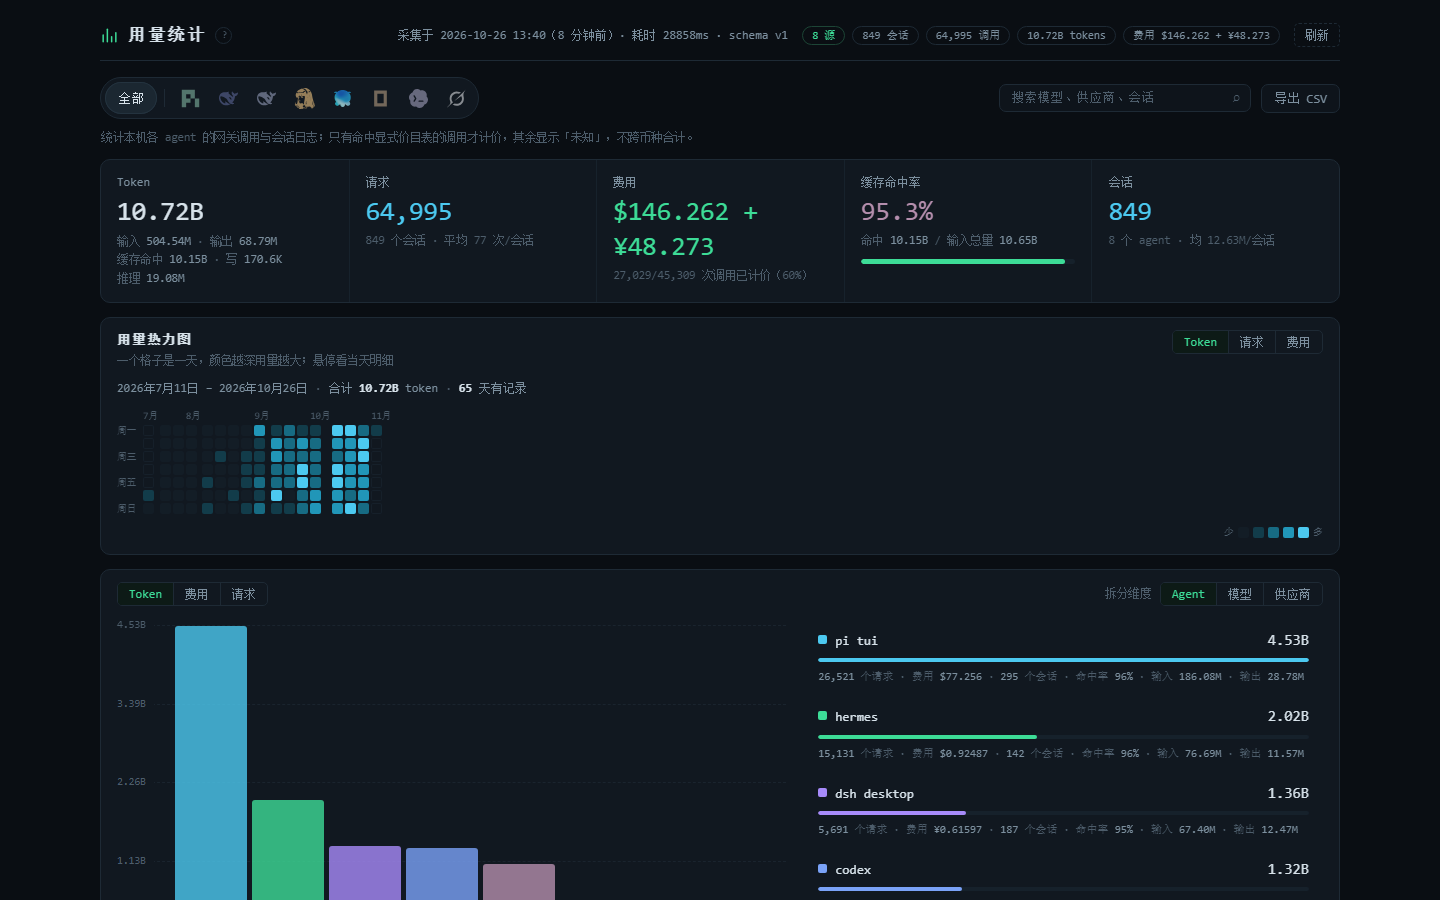
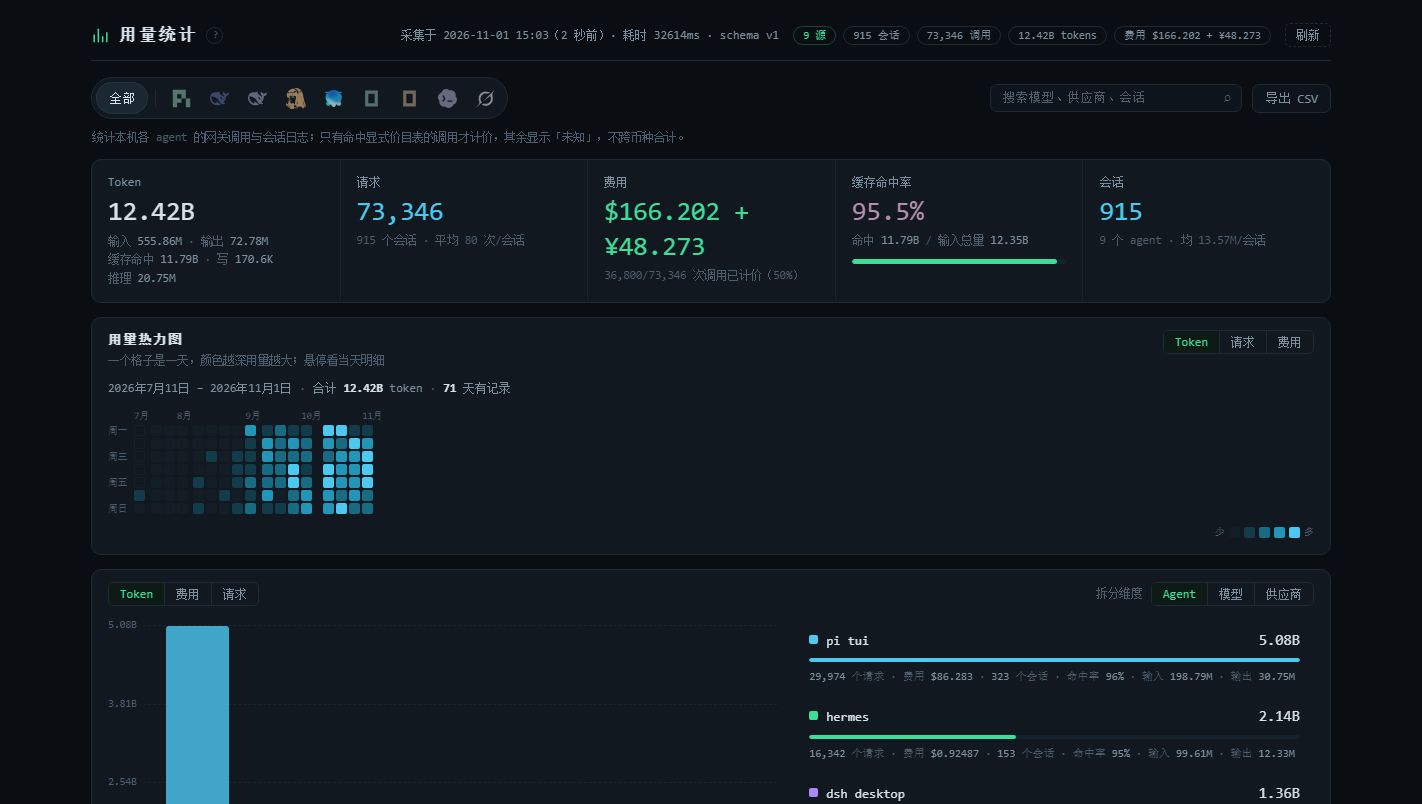
content(token-usage): 更到 11-01 现状 —— 9 个源、12.42B/73,346 调用，补 provider 归属与模型归一化，新增三个坑与欠债，换四张新截图

diff --git a/content/posts/token-usage.md b/content/posts/token-usage.md
@@ -1,27 +1,27 @@
 ---
-title: 8 个 agent 的账本，能不能放进同一张账单
+title: 9 个 agent 的账本，能不能放进同一张账单
 project: token-usage
 slug: token-usage
 date: 2026-10-13
 category: project
 tags: [用量统计, sqlite, zstandard, 数据归一化, 零依赖]
-summary: 本机 8 个编码 agent 各记各的账，SQLite、JSONL、Zstandard 事件流混在一起，连 input_tokens 的含义都不统一。这篇写怎么把它们归一成一张能横向比较的账单，以及一个有明文密钥躺在数据库里的事。
+summary: 本机 9 个编码 agent 各记各的账，SQLite、JSONL、Zstandard 事件流混在一起，连 input_tokens 的含义都不统一，provider 和模型名还有两套写法。这篇写怎么把它们归一成一张能横向比较的账单：12.42B tokens、73,346 次调用，以及一个有明文密钥躺在数据库里的事。
 stack: [Node.js, node:sqlite, node:zlib, Zstandard, 原生 HTML]
 status: shipped
-updated: 2026-10-26
+updated: 2026-11-01
 ---
 
 用了半年多编码 agent 之后，我发现自己答不上一个很简单的问题：
 
 **钱花在哪了？**
 
-pi、codex、opencode、grokbuild、dsh desktop、dsh web、hermes、minimax code —— 八个东西各记各的账，两个在 SQLite 里，一个在 Zstandard 压缩的事件流里，一个在 NAS 的 docker 卷里，还有几个的原始目录**已经被它自己删掉了**。
+pi、codex、opencode、opencode tui、grokbuild、dsh desktop、dsh web、hermes、minimax code —— 九个东西各记各的账：有的在 SQLite 里，有的在 Zstandard 压缩的事件流里，有的在 NAS 的 docker 卷里，还有几个的原始目录**已经被它自己删掉了**。
 
 所以这个项目的目标不是做报表，是做一件更前面的事：**把它们说成同一种语言。**
 
 <figure>
   <img src="/media/token-usage/dashboard-top.png" alt="用量统计面板顶部：汇总卡、用量热力图、按 agent 排行的柱状图">
-  <figcaption>面板顶部：10.72B tokens、64,995 次调用、费用 $146.262 + ¥48.273，右边是按 agent 的排行</figcaption>
+  <figcaption>面板顶部：12.42B tokens、73,346 次调用、费用 $166.202 + ¥48.273，右边是按 agent 的排行</figcaption>
 </figure>
 
 ## 它长什么样
@@ -34,21 +34,21 @@ pi、codex、opencode、grokbuild、dsh desktop、dsh web、hermes、minimax cod
 
 <figure>
   <img src="/media/token-usage/tables-agent.png" alt="Agent 对比表：8 个 agent 的会话数、调用数、输入输出、缓存命中、合计与费用">
-  <figcaption>agent 对比 —— pi tui 4.53B / hermes 2.02B / dsh desktop 1.36B，费用按各源自带的价格算</figcaption>
+  <figcaption>agent 对比 —— pi tui 5.08B / hermes 2.14B / dsh desktop 1.36B，费用按各源自带的价格算</figcaption>
 </figure>
 
 **这些钱花在哪些项目上：**
 
 <figure>
   <img src="/media/token-usage/tables-source.png" alt="会话来源表：按项目/来源统计的会话、调用、输入输出、合计与费用">
-  <figcaption>会话来源 —— 前几名是 cli、青风山居、codex、wt-dev；这一列是把「谁在烧钱」落到具体项目上的关键</figcaption>
+  <figcaption>会话来源 —— 前几名是 cli（11,038 次调用）、青风山居（6,139）、(未标注)（6,186）、codex；这一列是把「谁在烧钱」落到具体项目上的关键</figcaption>
 </figure>
 
 **同一个模型被谁服务、各花多少：**
 
 <figure>
   <img src="/media/token-usage/tables-model.png" alt="Top 模型表：provider、模型、调用数、输入输出、缓存命中、合计与费用">
-  <figcaption>Top 模型 —— 一个模型一行；provider 一列被脱敏成 <code>(codex session 数据源)…</code>、<code>(未登记 provider)</code>，费用查不到价就写「未知」</figcaption>
+  <figcaption>Top 模型 —— 一个模型一行，provider 一列把同一模型的所有中转站并列（<code>B.AI · cline-pass 等 7 家</code>）；费用查不到价就写「未知」</figcaption>
 </figure>
 
 能回答三个问题：
@@ -57,9 +57,9 @@ pi、codex、opencode、grokbuild、dsh desktop、dsh web、hermes、minimax cod
 2. 哪个 agent / provider / 模型在花？
 3. 什么时候花的（按天）？
 
-## 八个源，八套口径
+## 九个源，九套口径
 
-难的不是读数据，是**这八套数据互相不认识**：
+难的不是读数据，是**这九套数据互相不认识**：
 
 | Agent | 环境 | 数据源 | 麻烦在哪 |
 |---|---|---|---|
@@ -67,8 +67,9 @@ pi、codex、opencode、grokbuild、dsh desktop、dsh web、hermes、minimax cod
 | codex | Windows 11 | 同上（当前库 + 轮转备份） | 原始 `~/.codex/` **已被删**，备份是唯一副本 |
 | opencode | Windows 11 | 同上 + 日聚合表 | 原始 `~/.local/share/opencode` **也没了** |
 | grokbuild | Windows 11 | 同上 + 日聚合表 | 同上 |
+| opencode tui | Windows 11 | `~/.local/share/opencode/opencode.db` | OpenCode **自带账本**：逐条 assistant 消息的 token + 原生 USD cost |
 | dsh desktop | Windows 11 | `~/.dsh/sessions/*/*/session.v4.jsonl.zstd` | 要从 Zstandard 多帧事件流还原 per-message usage |
-| dsh web | WSL2 Ubuntu-24.04 | 同上，经 `wsl.exe` | 本机 `\\wsl.localhost\` 不可达 |
+| dsh web | WSL2 Ubuntu-24.04 | 同上，经 `wsl.exe` | 本机 `\\wsl.localhost\` 不可达；WSL 侧现在也有 187 个 session |
 | hermes | NAS docker（群晖） | `[NAS]:\hermes\hermes_data\profiles\*\state.db` | 唯一自带 cost 列，含企微 bot 会话 |
 | minimax code | Windows 11 | `~/.minimax/v2/sqlite/runtime-state.sqlite` | 账本行的 `model` 是 `NULL` |
 
@@ -96,11 +97,28 @@ pi、codex、opencode、grokbuild、dsh desktop、dsh web、hermes、minimax cod
 
 **数据一条没少，只是名字不同。** 所以「一个模型一行」这件事得先做归一化，否则排行表里同一个模型会被拆成好几行。
 
+归一化在 `lib/model.mjs` 里，只折三层：厂商命名空间（`cline-pass/`）、端点前缀（`global:` / `cn:`）、尾部发布日期（`-1017` / `-20251017`）。折完再计价（价目表按原始拼法匹配），原始拼法保留在 `rawModel` 和快照的 `modelAliases` 里。
+
+效果是模型榜从 **78 行降到 38 行**（后来又接了两个源，现在 45 行）：`deepseek-v4.1-flash` 的三个拼法合成一行 —— 现在 47,851 次调用、8.84B tokens，provider 一列并列七家。
+
+但归一化不能过头：`step-5-preview`、`mimo-v2.5-pro` 这些名字相近的确实是不同模型；大小写也一律不折，因为 `qwen2.5-coder:7b-instruct-q4_K_M` 是本地模型的 tag，大小写敏感。
+
 ### 三、有的账本自带价格，有的没有
 
 hermes 的 `session_model_usage` 自带 cost 列，cc-switch 带原生 USD 价。剩下的消费方没有价，只能用 `pricing.json` 按模型查表估算 —— 查不到的就显示「未知」，**不摊、不猜、不分母**。
 
-面板里那句 `27,029/45,309 次调用已计价（60%）` 就是这条规则的结果。
+面板里那句 `36,800/73,346 次调用已计价（50%）` 就是这条规则的结果。
+
+### 四、provider 也是各写各的
+
+模型名归一完，排行榜还是不对：同一家 provider 在三个源里叫三个名字。
+
+- cc-switch 里自定义厂商存成 `custom:workbuddy`，hermes 里叫 `workbuddy`；
+- 有的流量 provider 是 `(unknown)`，看模型能认出是 B.AI；
+- 小米的三条计费线名字不同，其实是同一个 token 套餐；
+- 最麻烦的是三个 `provider_id` 是裸 UUID —— 它们在 `providers` 表里没有记录，是孤儿值。
+
+所以有 `lib/provider.mjs`：按 `(provider, model)` 的归属规则匹配，`providers.json` 里写死映射；UUID 型的 id 取 sha256 指纹的前几位当替身（既不丢失区分度，也不会把密钥类的值带出去）。
 
 ## 数据源会自己清理，所以得留底
 
@@ -150,7 +168,7 @@ grep -c 'sk-' out/snapshot.json   # 0
 落成这样：
 
 - 采集器只用 Node 内置模块（`node:sqlite` / `node:zlib` / `node:fs`），**零 npm 依赖**，没有构建步骤；
-- 面板是**单文件原生 HTML**（`public/index.html`，2000 行，无框架），构建时把 snapshot 内联进 `<script type="application/json" id="snapshot-data">`；
+- 面板是**单文件原生 HTML**（`public/index.html`，2025 行，无框架），构建时把 snapshot 内联进 `<script type="application/json" id="snapshot-data">`；
 - 所以 `out/index.html` **双击就能看**，不需要服务在跑；如果它是从 HTTP 上打开的，还会自动轮询刷新；
 - 写 snapshot 用「写临时文件 + `rename`」，因为页面在轮询这个文件，绝不能让页面读到一半的内容。
 
@@ -173,10 +191,10 @@ node serve.mjs --dir [NAS]:/hermes/opt_data/tokens-usage --port 80
 | 指标 | 数值 |
 |---|---|
 | 采集源 | 8 个 agent |
-| 采集器 | `collect.mjs` 550 行 + `lib/` 744 行 + `sources/` 1726 行 |
-| 面板 | 单文件 HTML 2000 行，零框架 |
-| 探针 / 验收脚本 | 15 个（都在 `scripts/`，一条命令可复现） |
-| 一次全量采集 | 28,858 ms，849 会话 / 64,995 次调用 / 10.72B tokens |
+| 采集器 | `collect.mjs` 560 行 + `lib/` 744 行 + `sources/` 2185 行 |
+| 面板 | 单文件 HTML 2025 行，零框架 |
+| 探针 / 验收脚本 | 16 个，合计 1416 行（都在 `scripts/`，一条命令可复现） |
+| 一次全量采集 | 32.6 s，915 会话 / 73,346 次调用 / 12.42B tokens / 71 天 |
 | 依赖 | 0 个 npm 包（Node ≥ 22.5，实测 24） |
 
 ## 几个具体的坑
@@ -191,13 +209,27 @@ node serve.mjs --dir [NAS]:/hermes/opt_data/tokens-usage --port 80
 
 **⑤ 页面用 `file://` 打不开。** 因为它要 `fetch('snapshot.json')`，跨 origin 直接失败。所以才有「把 snapshot 内联进 HTML」这一步 —— 顺带解决了「不想常驻服务」的需求。
 
+**⑥ opencode tui 的「消息判别字段」取错了地方。** 这个源刚接上时只认出 5 条消息，模型分布全归到「会话当前模型」。原因是判别字段在 `session_message.type` 这一列上，不在 `data` JSON 里；而且旧预筛用了 `like '%assistant%'`，实测 130 条 assistant 消息里只有 36 条文本含这个词，**三分之二的用量被 SQL 层直接筛掉了**。修成 `like '%"tokens"%'` + 从列取值之后，调用数从 5 变成 140，现在是 3,687。另外两张表（`session_v2`/`session`、`session_message`/`message`）里存在同 id 同 token 的重复行，必须按 id 去重。
+
+**⑦ hermes 的会话是跨天的，一行不能记在第一天。** `session_model_usage` 一行代表一个会话在一个模型上的**累计**，时间范围是 `first_seen` → `last_seen`。一个活了一周的会话，整行的 token 全记到 `first_seen` 那天，那天就会虚高、后面几天全是 0 —— 这是这份数据里**日级误差的最大来源**。修法：按会话的 assistant 消息时间戳把这行摊到各天（宽一天的窗口，取不到就退回整个会话），成本也按同样的比例拆。
+
+**⑧ 会话数不能用计数器。** 面板一开始在每个维度上累加「会话 +1」，结果 workbuddy 报 207 个会话，而实际参与统计的只有 137 个 —— 因为一个会话可能通过多个 provider、多个模型到达同一个维度。改成 `Set<sessionId>` 之后数字才对得上，`均 80 次/会话` 这类派生指标也才有意义。
+
+## 现状与欠债
+
+- **一半的调用没有价。** 36,800/73,346 有显式价目（50%），剩下的按规则显示「未知」。dsh 两个源完全没有价格字段，hermes 只有一部分行带 cost；补价只能靠猜，所以我选择不猜。
+- **dsh desktop 和 dsh web 都报 187 个 artifact。** 字节数不同（86.6 MB vs 62.8 MB），但 session 数完全一样。到底是 WSL 侧同步了一份副本，还是真的各自 187 个会话，我没查 —— 记账上现在把两边都算进去了，这可能是一处重复。
+- **指标条上的「已计价」比例刚修过一次。** 原来是按会话列表累加 `costSource`，只统计了有模型归属的调用（22,378 条调用被漏掉），显示 65%；改成按每个 agent 的 totals 累加才与顶部「调用」口径一致（50%）。
+- **面板没有自动化测试。** 16 个探针都在采集侧，面板本身只有肉眼验收 —— 上面那条比例 bug 就是肉眼看不出来的那种。
+- **归档依赖 cc-switch 的轮转备份。** 如果哪天它把备份也清了，codex / opencode / grokbuild 的历史就只剩已经生成过的 snapshot。
+
 ## 回头看
 
 **第一件，口径比数据重要。**
 
-八个源里没有一个的数据是错的，但直接加在一起就是错的 —— `input_tokens` 语义不同、模型名指向不同层、有的带价有的不带。做这类项目，前半程基本都在做一件事：**确定每个字段到底在说什么**，并给每个判断配一条能复现的验证脚本。
+九个源里没有一个的数据是错的，但直接加在一起就是错的 —— `input_tokens` 语义不同、模型名指向不同层、provider 各写各的、有的带价有的不带。做这类项目，前半程基本都在做一件事：**确定每个字段到底在说什么**，并给每个判断配一条能复现的验证脚本。
 
-那句「一个不能复现的结论，价值是零」在这是很具体的：`scripts/` 下 15 个脚本不是测试，是**我对每个口径判断的举证材料**。
+那句「一个不能复现的结论，价值是零」在这是很具体的：`scripts/` 下 16 个脚本不是测试，是**我对每个口径判断的举证材料**。
 
 **第二件，别人的库也会给你意外。**
 
@@ -205,7 +237,11 @@ node serve.mjs --dir [NAS]:/hermes/opt_data/tokens-usage --port 80
 
 所以现在的顺序是反的：**先想清楚哪些列绝不读出，再写读取。**
 
-**第三件，抗清理比解析难。**
+**第三件，归一化的危险在「折多了」。**
+
+模型名和 provider 都是同一个问题：数据里没有唯一真源，只有一堆写法。折得不够，榜单一堆一行一个拼法；折得过头，两个真不一样的模型会被合并成一行，而且**合并后的数字看起来更漂亮**，你不会发现。所以每条折法都得配反例：日期后缀可以折，`step-5-preview` 的 `-preview` 不能折；`custom:workbuddy` 可以折掉前缀，`qwen2.5-coder:7b-instruct-q4_K_M` 的大小写不能动。
+
+**第四件，抗清理比解析难。**
 
 解析 zstd、解 SQLite、还原 per-message usage，这些都有确定答案；难的是数据源**在我脚下自己删东西**。所以采集器从一开始就按「当前库只是三个来源之一」来写，并且专门写脚本证明「备份删光了总量也不变」。
 
@@ -217,7 +253,7 @@ node serve.mjs --dir [NAS]:/hermes/opt_data/tokens-usage --port 80
 
 - 项目：token-usage
 - 类型：多端 agent token 用量采集器 + 静态面板
-- 规模：`collect.mjs` 550 行 + `lib/` 744 行 + `sources/` 1726 行 · 面板 2000 行 · 15 个探针脚本 · 8 次提交
+- 规模：`collect.mjs` 560 行 + `lib/` 744 行 + `sources/` 2185 行 · 面板 2025 行 · 16 个探针脚本 · 11 次提交
 - 约束：零 npm 依赖、零常驻进程、单文件页面
 - 入口：`node collect.mjs` → `out/index.html`
 - 状态：日常在用（本地服务 `http://token.use/`）
